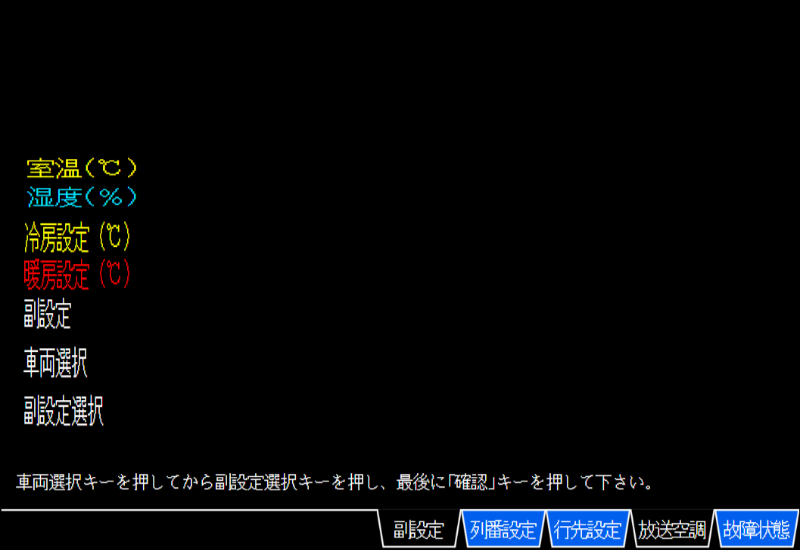
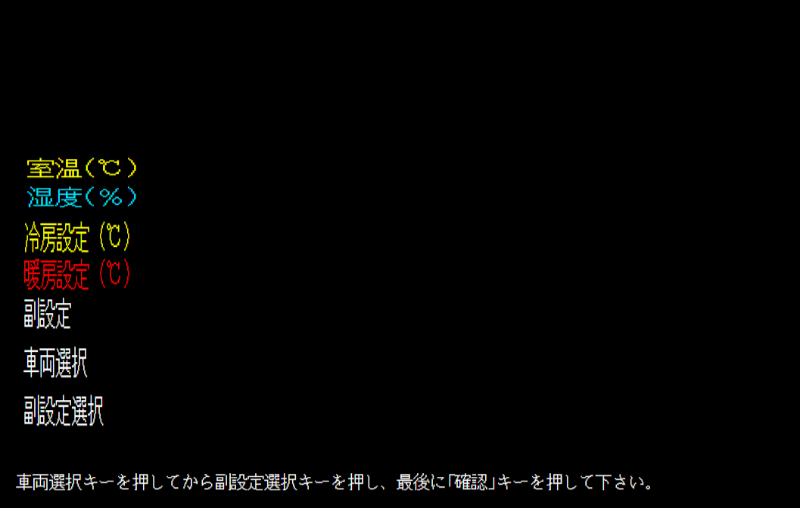
FooterInfoを全ページに適用

Changed region(s): [[0.0, 0.2657, 1.0, 1.0]]

diff --git a/TR.caMonPageMod.JRCMon/Footer/FooterTypes.cs b/TR.caMonPageMod.JRCMon/Footer/FooterTypes.cs
@@ -1,7 +1,9 @@
 using TR.caMonPageMod.JRCMon.Pages.Correction;
 using TR.caMonPageMod.JRCMon.Pages.Maintenance;
 using TR.caMonPageMod.JRCMon.Pages.Other;
+using TR.caMonPageMod.JRCMon.Pages.OtherSeries;
 using TR.caMonPageMod.JRCMon.Pages.SystemControl;
+using TR.caMonPageMod.JRCMon.Pages.WorkSetting;
 
 namespace TR.caMonPageMod.JRCMon.Footer;
 
@@ -18,6 +20,22 @@ public static class FooterType
 	[
 		new("表示設定", typeof(AppSettingPage)),
 		new("戻る", typeof(EmbeddedManual)),
+	];
+
+	public static IReadOnlyList<FooterInfo> SELECT_CAR_UNIT { get; } =
+	[
+		new("ﾕﾆｯﾄ設定", typeof(SelectCarUnit)),
+		new("応急ﾏﾆｭｱ", typeof(EmbeddedManual)),
+	];
+	public static IReadOnlyList<FooterInfo> SELECT_MY_CAR { get; } =
+	[
+		new("自車設定", typeof(SelectMyCar)),
+		new("ﾕﾆｯﾄ設定", typeof(SelectCarUnit)),
+	];
+	public static IReadOnlyList<FooterInfo> SELECT_OTHER_CAR { get; } =
+	[
+		new("車両選択", typeof(SelectOtherCar)),
+		new("ﾕﾆｯﾄ設定", typeof(SelectCarUnit)),
 	];
 
 	public static IReadOnlyList<FooterInfo> CLOCK_CORRECTION { get; } =
@@ -46,6 +64,11 @@ public static class FooterType
 		new("行先設定", typeof(DirectionSetting)),
 		new("戻る", typeof(DirectionMenu)),
 	];
+	public static IReadOnlyList<FooterInfo> TRAIN_TYPE_SETTING { get; } =
+	[
+		new("行先設定", typeof(TrainTypeSetting)),
+		new("戻る", typeof(DirectionMenu)),
+	];
 	public static IReadOnlyList<FooterInfo> WORK_SETTING { get; } =
 	[
 		new("号車", typeof(MenuPage)),
@@ -61,21 +84,38 @@ public static class FooterType
 
 	public static IReadOnlyList<FooterInfo> OTHER_SERIES_BASE { get; } =
 	[
-		new("徐行情報", typeof(MenuPage)),
+		new("徐行情報", typeof(OtherSeriesReduceSpeedPage)),
 		new("形式変更", typeof(MenuPage)),
 		new("地点補正", typeof(LocationCorrectionPage)),
-		new("列番設定", typeof(MenuPage)),
-		new("行先設定", typeof(MenuPage)),
-		new("放送空調", typeof(MenuPage)),
-		new("故障状態", typeof(MenuPage)),
+		new("列番設定", typeof(OtherSeriesWorkSetting)),
+		new("行先設定", typeof(OtherSeriesDirection)),
+		new("放送空調", typeof(OtherSeriesAnnounceACPage)),
+		new("故障状態", typeof(OtherSeriesTrouble)),
+	];
+	public static IReadOnlyList<FooterInfo> OTHER_SERIES_ANNOUNCE_AC { get; } =
+	[
+		new("形式変更", typeof(MenuPage)),
+		new("地点補正", typeof(LocationCorrectionPage)),
+		new("副設定", typeof(OtherSeriesSubSettingPage)),
+		new("列番設定", typeof(OtherSeriesWorkSetting)),
+		new("行先設定", typeof(OtherSeriesDirection)),
+		new("放送空調", typeof(OtherSeriesAnnounceACPage)),
+		new("故障状態", typeof(OtherSeriesTrouble)),
+	];
+	public static IReadOnlyList<FooterInfo> OTHER_SERIES_ANNOUNCE_AC_SUB { get; } =
+	[
+		new("副設定", typeof(OtherSeriesSubSettingPage)),
+		new("列番設定", typeof(OtherSeriesWorkSetting)),
+		new("行先設定", typeof(OtherSeriesDirection)),
+		new("放送空調", typeof(OtherSeriesAnnounceACPage), IsForceSelected: true),
+		new("故障状態", typeof(OtherSeriesTrouble)),
 	];
 	public static IReadOnlyList<FooterInfo> OTHER_SERIES_WORK_SETTING { get; } =
 	[
-		// 列番設定ページでのみ表示
-		// new("列番設定", typeof(MenuPage)),
-		new("行先設定", typeof(MenuPage)),
-		new("放送空調", typeof(MenuPage)),
-		new("故障状態", typeof(MenuPage)),
+		new("列番設定", typeof(OtherSeriesWorkSetting)),
+		new("行先設定", typeof(OtherSeriesDirection)),
+		new("放送空調", typeof(OtherSeriesAnnounceACPage)),
+		new("故障状態", typeof(OtherSeriesTrouble)),
 	];
 
 	public static IReadOnlyList<FooterInfo> MAINTENANCE_MENU { get; } =
@@ -113,6 +153,11 @@ public static class FooterType
 		new("車両状態", typeof(MenuPage)),
 		new("運転情報", typeof(MenuPage)),
 		new("メニュー", typeof(MenuPage)),
+	];
+	public static IReadOnlyList<FooterInfo> SELECT_ANNOUNCE { get; } =
+	[
+		new("自動放送", typeof(SelectAnnounce)),
+		new("戻る", typeof(MenuPage)),
 	];
 
 	public static IReadOnlyList<FooterInfo> CONDUCTOR_BASE { get; } =

diff --git a/TR.caMonPageMod.JRCMon/Pages/SystemControl/AppInfoPage.cs b/TR.caMonPageMod.JRCMon/Pages/SystemControl/AppInfoPage.cs
@@ -5,13 +5,11 @@ using TR.caMonPageMod.JRCMon.Footer;
 namespace TR.caMonPageMod.JRCMon.Pages.SystemControl;
 
 [PageTypes.FullScreenPage]
-public partial class AppInfoPage : FullScreenPageBase, IHoldRootGridInstance, IFooterInfo
+public partial class AppInfoPage : FullScreenPageBase, IFooterInfo
 {
-	public RootGrid? RootGrid { get; set; }
+	public IReadOnlyList<FooterInfo> FooterInfoList => FooterType.APP_INFO;
 
-  public IReadOnlyList<FooterInfo> FooterInfoList => FooterType.APP_INFO;
-
-  readonly Label AppVersionLabel = ComponentFactory.Get1XLongLabel();
+	readonly Label AppVersionLabel = ComponentFactory.Get1XLongLabel();
 
 	public AppInfoPage() : base(ResourceManager.ResourceFiles.AppInfo)
 	{

diff --git a/TR.caMonPageMod.JRCMon/Pages/WorkSetting/DirectionSetting.cs b/TR.caMonPageMod.JRCMon/Pages/WorkSetting/DirectionSetting.cs
@@ -1,9 +1,13 @@
-namespace TR.caMonPageMod.JRCMon.Pages.Other;
+using TR.caMonPageMod.JRCMon.Footer;
+
+namespace TR.caMonPageMod.JRCMon.Pages.WorkSetting;
 
 [PageTypes.NormalPage("行先設定", ResourceManager.ResourceFiles.WorkSettingIcon)]
-public partial class DirectionSetting : NormalPageBase, IHoldRootGridInstance
+public partial class DirectionSetting : NormalPageBase, IMultiPageFooterInfo
 {
-	public RootGrid? RootGrid { get; set; }
+	public IReadOnlyList<FooterInfo> FooterInfoList => FooterType.DIRECTION_SETTING;
+	public int SelectedIndex { get; set; }
+	public int MaxIndex { get; } = 3;
 
 	public DirectionSetting() : base(ResourceManager.ResourceFiles.DirectionSetting_1)
 	{

diff --git a/TR.caMonPageMod.JRCMon/Pages/WorkSetting/TrainTypeSetting.cs b/TR.caMonPageMod.JRCMon/Pages/WorkSetting/TrainTypeSetting.cs
@@ -1,9 +1,13 @@
-namespace TR.caMonPageMod.JRCMon.Pages.Other;
+using TR.caMonPageMod.JRCMon.Footer;
+
+namespace TR.caMonPageMod.JRCMon.Pages.WorkSetting;
 
 [PageTypes.NormalPage("種別", ResourceManager.ResourceFiles.WorkSettingIcon)]
-public partial class TrainTypeSetting : NormalPageBase, IHoldRootGridInstance
+public partial class TrainTypeSetting : NormalPageBase, IMultiPageFooterInfo
 {
-	public RootGrid? RootGrid { get; set; }
+	public IReadOnlyList<FooterInfo> FooterInfoList => FooterType.SELECT_ANNOUNCE;
+	public int SelectedIndex { get; set; }
+	public int MaxIndex { get; } = 3;
 
 	public TrainTypeSetting() : base(ResourceManager.ResourceFiles.TrainTypeSetting)
 	{

diff --git a/TR.caMonPageMod.JRCMon/Pages/Correction/LocationCorrection.cs b/TR.caMonPageMod.JRCMon/Pages/Correction/LocationCorrection.cs
@@ -1,9 +1,13 @@
+using TR.caMonPageMod.JRCMon.Footer;
+
 namespace TR.caMonPageMod.JRCMon.Pages.Correction;
 
 [PageTypes.NormalPage("地点補正", ResourceManager.ResourceFiles.CorrectionIcon)]
-public partial class LocationCorrectionPage : NormalPageBase, IHoldRootGridInstance
+public partial class LocationCorrectionPage : NormalPageBase, IMultiPageFooterInfo
 {
-	public RootGrid? RootGrid { get; set; }
+	public IReadOnlyList<FooterInfo> FooterInfoList => FooterType.LOCATION_CORRECTION;
+	public int SelectedIndex { get; set; }
+	public int MaxIndex { get; } = 3;
 
 	public LocationCorrectionPage() : base(ResourceManager.ResourceFiles.LocationCorrection_1)
 	{

diff --git a/TR.caMonPageMod.JRCMon/Pages/OtherSeries/OtherSeriesSubSetting.cs b/TR.caMonPageMod.JRCMon/Pages/OtherSeries/OtherSeriesSubSetting.cs
@@ -1,9 +1,11 @@
+using TR.caMonPageMod.JRCMon.Footer;
+
 namespace TR.caMonPageMod.JRCMon.Pages.OtherSeries;
 
 [PageTypes.NormalPage("他形式副設定", ResourceManager.ResourceFiles.OtherSeriesIcon)]
-public partial class OtherSeriesSubSettingPage : NormalPageBase, IHoldRootGridInstance
+public partial class OtherSeriesSubSettingPage : NormalPageBase, IFooterInfo
 {
-	public RootGrid? RootGrid { get; set; }
+	public IReadOnlyList<FooterInfo> FooterInfoList => FooterType.OTHER_SERIES_ANNOUNCE_AC_SUB;
 
 	public OtherSeriesSubSettingPage() : base(ResourceManager.ResourceFiles.OtherSeriesSubSetting)
 	{

diff --git a/TR.caMonPageMod.JRCMon/Pages/OtherSeries/OtherSeriesAnnounceAC.cs b/TR.caMonPageMod.JRCMon/Pages/OtherSeries/OtherSeriesAnnounceAC.cs
@@ -1,9 +1,11 @@
+using TR.caMonPageMod.JRCMon.Footer;
+
 namespace TR.caMonPageMod.JRCMon.Pages.OtherSeries;
 
 [PageTypes.NormalPage("他形式放送空調", ResourceManager.ResourceFiles.OtherSeriesIcon)]
-public partial class OtherSeriesAnnounceACPage : NormalPageBase, IHoldRootGridInstance
+public partial class OtherSeriesAnnounceACPage : NormalPageBase, IFooterInfo
 {
-	public RootGrid? RootGrid { get; set; }
+	public IReadOnlyList<FooterInfo> FooterInfoList => FooterType.OTHER_SERIES_ANNOUNCE_AC;
 
 	public OtherSeriesAnnounceACPage() : base(ResourceManager.ResourceFiles.OtherSeriesAnnounceAC)
 	{

diff --git a/TR.caMonPageMod.JRCMon/Pages/OtherSeries/OtherSeriesWorkSetting.cs b/TR.caMonPageMod.JRCMon/Pages/OtherSeries/OtherSeriesWorkSetting.cs
@@ -1,9 +1,11 @@
+using TR.caMonPageMod.JRCMon.Footer;
+
 namespace TR.caMonPageMod.JRCMon.Pages.OtherSeries;
 
 [PageTypes.NormalPage("他形式運行設定", ResourceManager.ResourceFiles.OtherSeriesIcon)]
-public partial class OtherSeriesWorkSetting : NormalPageBase, IHoldRootGridInstance
+public partial class OtherSeriesWorkSetting : NormalPageBase, IFooterInfo
 {
-	public RootGrid? RootGrid { get; set; }
+	public IReadOnlyList<FooterInfo> FooterInfoList => FooterType.OTHER_SERIES_WORK_SETTING;
 
 	public OtherSeriesWorkSetting() : base(ResourceManager.ResourceFiles.OtherSeriesWorkSetting)
 	{

diff --git a/TR.caMonPageMod.JRCMon/Pages/OtherSeries/OtherSeriesReduceSpeed.cs b/TR.caMonPageMod.JRCMon/Pages/OtherSeries/OtherSeriesReduceSpeed.cs
@@ -1,9 +1,11 @@
+using TR.caMonPageMod.JRCMon.Footer;
+
 namespace TR.caMonPageMod.JRCMon.Pages.OtherSeries;
 
 [PageTypes.NormalPage("他形式徐行", ResourceManager.ResourceFiles.OtherSeriesIcon)]
-public partial class OtherSeriesReduceSpeedPage : NormalPageBase, IHoldRootGridInstance
+public partial class OtherSeriesReduceSpeedPage : NormalPageBase, IFooterInfo
 {
-	public RootGrid? RootGrid { get; set; }
+	public IReadOnlyList<FooterInfo> FooterInfoList => FooterType.OTHER_SERIES_BASE;
 
 	public OtherSeriesReduceSpeedPage() : base(ResourceManager.ResourceFiles.OtherSeriesReduceSpeed)
 	{

diff --git a/TR.caMonPageMod.JRCMon/Pages/WorkSetting/DirectionMenu.cs b/TR.caMonPageMod.JRCMon/Pages/WorkSetting/DirectionMenu.cs
@@ -1,9 +1,11 @@
-namespace TR.caMonPageMod.JRCMon.Pages.Other;
+using TR.caMonPageMod.JRCMon.Footer;
+
+namespace TR.caMonPageMod.JRCMon.Pages.WorkSetting;
 
 [PageTypes.NormalPage("行先メニュ", ResourceManager.ResourceFiles.WorkSettingIcon)]
-public partial class DirectionMenu : NormalPageBase, IHoldRootGridInstance
+public partial class DirectionMenu : NormalPageBase, IFooterInfo
 {
-	public RootGrid? RootGrid { get; set; }
+	public IReadOnlyList<FooterInfo> FooterInfoList => FooterType.DIRECTION_MENU;
 
 	public DirectionMenu() : base(ResourceManager.ResourceFiles.DirectionMenu)
 	{

diff --git a/TR.caMonPageMod.JRCMon/Pages/OtherSeries/OtherSeriesDirection.cs b/TR.caMonPageMod.JRCMon/Pages/OtherSeries/OtherSeriesDirection.cs
@@ -1,9 +1,11 @@
+using TR.caMonPageMod.JRCMon.Footer;
+
 namespace TR.caMonPageMod.JRCMon.Pages.OtherSeries;
 
 [PageTypes.NormalPage("他形式行先設定", ResourceManager.ResourceFiles.OtherSeriesIcon)]
-public partial class OtherSeriesDirection : NormalPageBase, IHoldRootGridInstance
+public partial class OtherSeriesDirection : NormalPageBase, IFooterInfo
 {
-	public RootGrid? RootGrid { get; set; }
+	public IReadOnlyList<FooterInfo> FooterInfoList => FooterType.OTHER_SERIES_WORK_SETTING;
 
 	public OtherSeriesDirection() : base(ResourceManager.ResourceFiles.OtherSeriesDirection)
 	{

diff --git a/TR.caMonPageMod.JRCMon/Pages/Maintenance/PerformanceRecord.cs b/TR.caMonPageMod.JRCMon/Pages/Maintenance/PerformanceRecord.cs
@@ -1,9 +1,11 @@
+using TR.caMonPageMod.JRCMon.Footer;
+
 namespace TR.caMonPageMod.JRCMon.Pages.Maintenance;
 
 [PageTypes.NormalPage("検修メニュー", ResourceManager.ResourceFiles.MaintenanceIcon)]
-public partial class PerformanceRecordPage : NormalPageBase, IHoldRootGridInstance
+public partial class PerformanceRecordPage : NormalPageBase, IFooterInfo
 {
-	public RootGrid? RootGrid { get; set; }
+	public IReadOnlyList<FooterInfo> FooterInfoList => FooterType.PERFORMANCE_RECORD;
 
 	public PerformanceRecordPage() : base(ResourceManager.ResourceFiles.PerformanceRecord)
 	{
